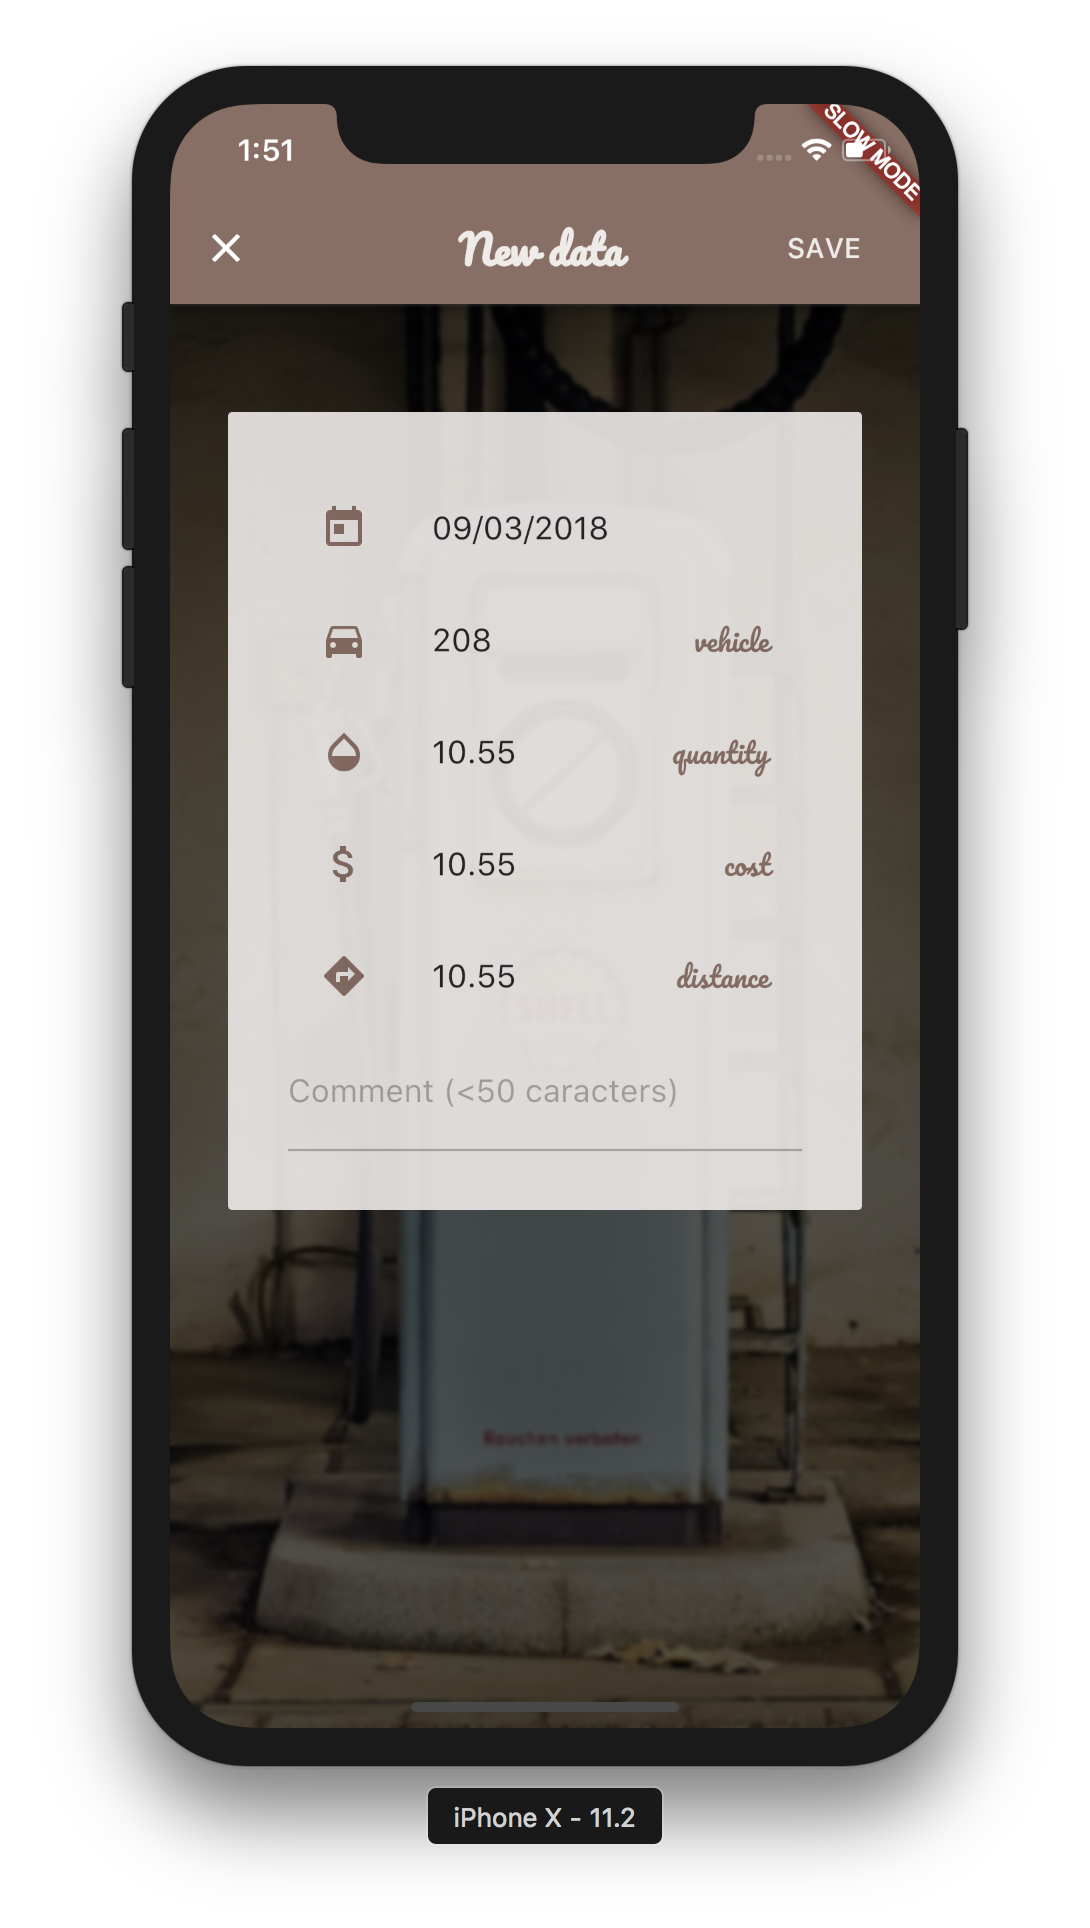
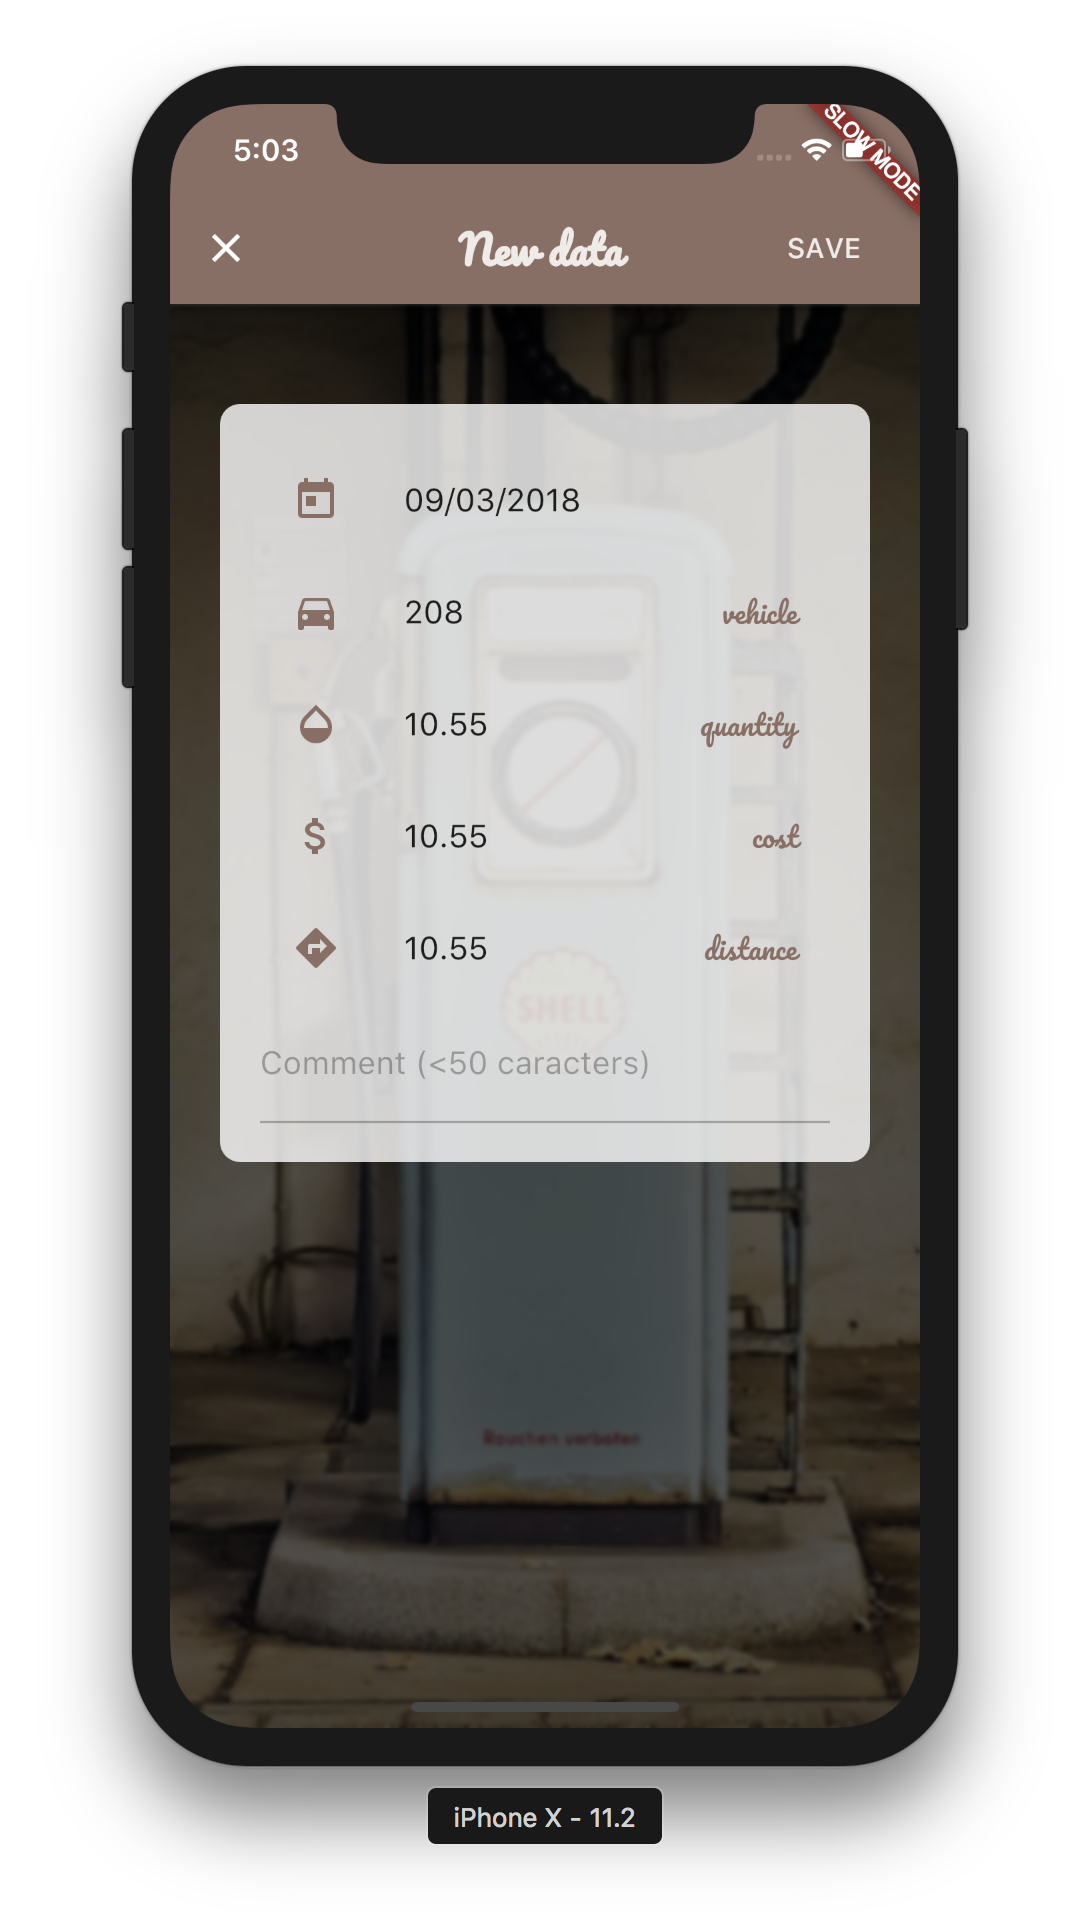
:lipstick: Updating data UI.

diff --git a/lib/Pages/Data/DataDialog.dart b/lib/Pages/Data/DataDialog.dart
@@ -123,14 +123,12 @@ class DataDialogState extends State<DataDialog> {
       children: <Widget>[
         new Container(
           margin: const EdgeInsets.only(top: 50.0, left: 25.0, right: 25.0),
-          child: new Opacity(
-            opacity: 0.90,
-            child:
-          new Card(
-            elevation: 0.1,
-            color: Colors.brown[50],
-            child: new Padding(
-            padding: const EdgeInsets.all(30.0),
+          child: new Container(
+            padding: const EdgeInsets.all(20.0),
+            decoration: new BoxDecoration(
+              color: Colors.white.withOpacity(0.80),
+              borderRadius: new BorderRadius.circular(10.0)
+            ),
             child: new Form(
               key: formKey,
               child: new Column(
@@ -179,7 +177,7 @@ class DataDialogState extends State<DataDialog> {
                 ],
               ),
             ),
-          )))
+          ),
         ),
         _buildDeleteElement(context)
       ]
@@ -188,35 +186,32 @@ class DataDialogState extends State<DataDialog> {
 
   Widget _buildDeleteElement(BuildContext context){
     if(action != null && action == 'Update'){
-      return new Container(
-        margin: const EdgeInsets.only(top: 50.0, left: 25.0, right: 25.0),
-        child: new Opacity(
-          opacity: 0.90,
-          child: new GestureDetector(
-            onTap: () => _showDeleteDialog(context),
-            child: new Card(
-              elevation: 0.1,
-              color: Colors.red[50],
-              child: new Padding(
-                padding: const EdgeInsets.all(30.0),
-                child: new ListTile(
-                  leading: new CircleAvatar(
-                    backgroundColor: Colors.redAccent[200],
-                    child: new Icon(Icons.delete, color: Colors.red[50],),
-                  ),
-                  title: new Text(
-                    'Delete data',
-                    style: new TextStyle(
-                      color: Colors.redAccent[200],
-                      fontFamily: 'Pacifico',
-                      fontSize: 23.0
-                    ),
-                  ),
-                )
-              )
+      return new GestureDetector(
+        onTap: () => _showDeleteDialog(context),
+        child: new Container(
+          margin: const EdgeInsets.only(top: 50.0, left: 25.0, right: 25.0),
+          child: new Container(
+            padding: const EdgeInsets.all(20.0),
+            decoration: new BoxDecoration(
+              color: Colors.red[50].withOpacity(0.80),
+              borderRadius: new BorderRadius.circular(10.0)
+            ),
+            child: new ListTile(
+              leading: new CircleAvatar(
+                backgroundColor: Colors.redAccent[200],
+                child: new Icon(Icons.delete, color: Colors.red[50],),
+              ),
+              title: new Text(
+                'Delete data',
+                style: new TextStyle(
+                  color: Colors.redAccent[200],
+                  fontFamily: 'Pacifico',
+                  fontSize: 23.0
+                ),
+              ),
             )
           )
-        ),
+        )
       );
     }
     else{

diff --git a/lib/UI/DataListItem.dart b/lib/UI/DataListItem.dart
@@ -18,12 +18,12 @@ class DataListItem extends StatelessWidget {
           color: Colors.white.withOpacity(0.80),
           borderRadius: new BorderRadius.circular(10.0),
           boxShadow: <BoxShadow>[
-        new BoxShadow(
-          spreadRadius: 2.0,
-          blurRadius: 10.0,
-          color: Colors.black26,
-        ),
-      ],
+            new BoxShadow(
+              spreadRadius: 2.0,
+              blurRadius: 10.0,
+              color: Colors.black26,
+            ),
+          ],
         ),
         child: new Tooltip(
           message: data.comment,
